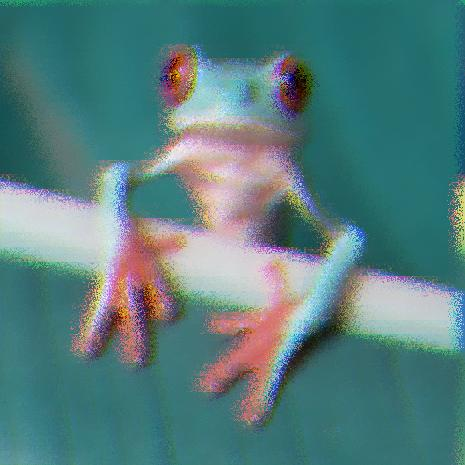
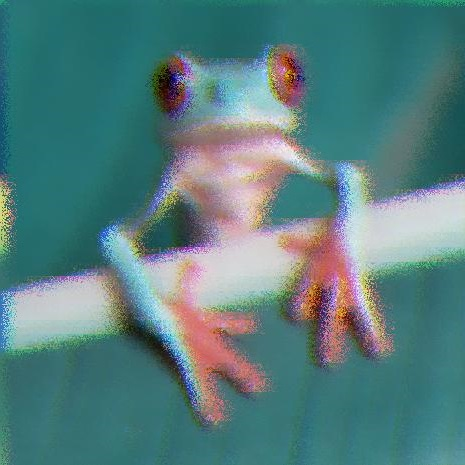
GLSL で画像にフィルタをかけてみるテスト（その２０改）

diff --git a/cx20/xGF6/index.html b/cx20/xGF6/index.html
@@ -31,16 +31,16 @@ float random(vec2 ab)
 }
 
 void main(void) {
-    vec2 uv = gl_FragCoord.xy / resolution.xy;
+    vec2 uv = vTextureCoord; // gl_FragCoord.xy / resolution.xy;
     vec4 color = vec4(0.0);
 
     float go = sin(time) * 0.01;
     float go2 = sin(time) * 0.01;
     vec2 strenght = vec2(5, 2) * random(uv);
 
-    color.r = texture2D(texture, -uv - vec2(go, 0.0) * strenght).r;
-    color.g = texture2D(texture, -uv - vec2(0.005, go2) * strenght).g;
-    color.b = texture2D(texture, -uv).g;
+    color.r = texture2D(texture, uv - vec2(go, 0.0) * strenght).r;
+    color.g = texture2D(texture, uv - vec2(0.005, go2) * strenght).g;
+    color.b = texture2D(texture, uv).g;
     color.a = 1.0;
 
     gl_FragColor = color;
